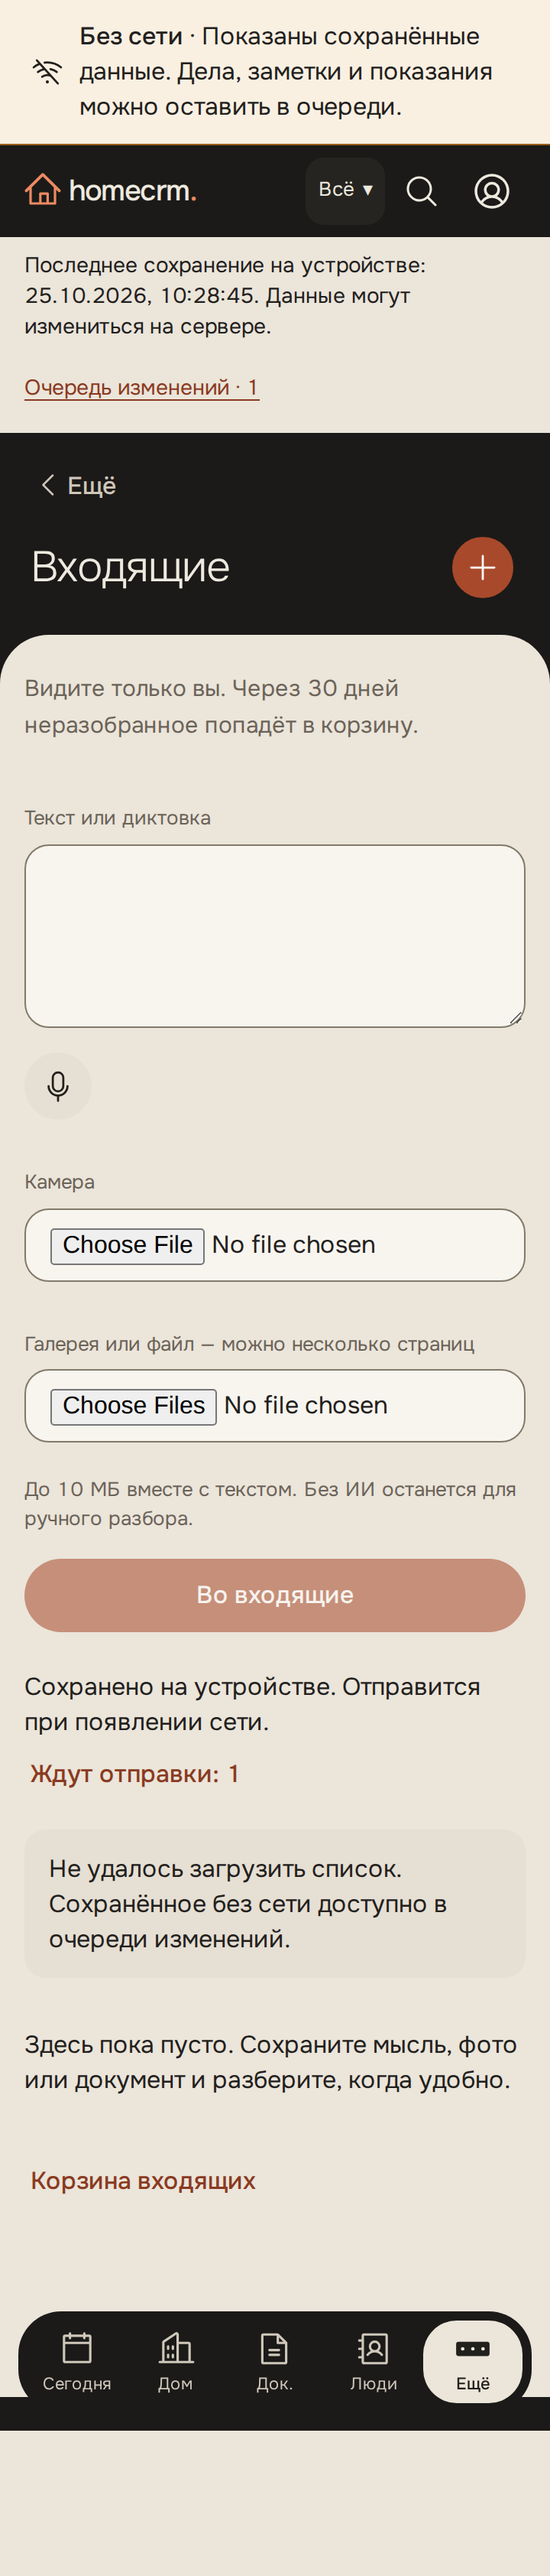
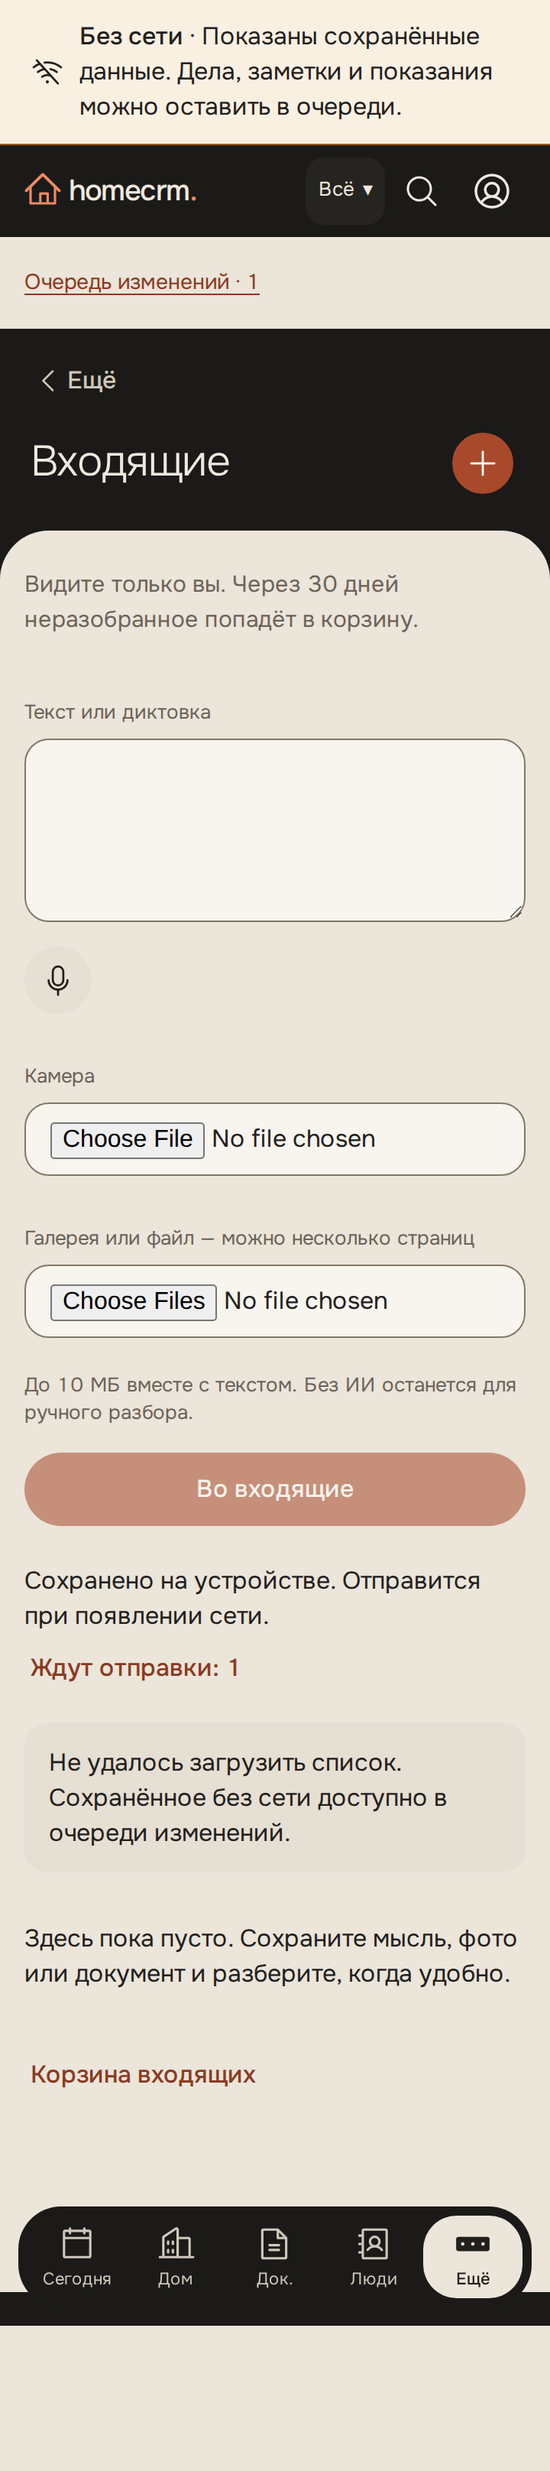
INBOX-1: понятные суммы, даты и типы в предпросмотре

Changed region(s): [[0.0306, 0.375, 0.9778, 0.9375], [0.0, 0.0, 1.0, 0.3438]]

diff --git a/apps/web/e2e/app/inbox.e2e.ts b/apps/web/e2e/app/inbox.e2e.ts
@@ -1,7 +1,8 @@
 import { randomUUID } from 'node:crypto';
-import { AiStatus } from '@homecrm/shared';
+import { AiStatus, DOCUMENT_LABELS, DocumentDraft, DraftSchemas } from '@homecrm/shared';
 import type { Page } from '@playwright/test';
 import { identityPage, meterPage } from '../../../server/src/ai/eval/inbox.ts';
+import { fakeDraft } from '../../../server/src/ai/providers.ts';
 import type { Family } from '../auth/support/family.ts';
 import { test } from '../auth/support/fixtures.ts';
 import { apiAs } from './notes-support.ts';
@@ -202,3 +203,61 @@ for (const automatic of [true, false])
     await expect(page.getByText('Черновик готов', { exact: true })).toBeVisible({ timeout: 20000 });
     await checkApp(page, info, automatic ? 'inbox-reopen' : 'inbox-parse-button');
   });
+
+test('INBOX-4: предпросмотр показывает рубли, русские даты и тип документа', async ({
+  page,
+  family,
+}, info) => {
+  const api = await apiAs(family, 'adult');
+  await signInAs(page, family, 'adult');
+  for (const kind of ['document', 'receipt'] as const) {
+    const id = randomUUID();
+    expect(
+      (
+        await api.post('inbox', {
+          id,
+          idempotencyKey: id,
+          ownerAccountId: family.person('adult').id,
+          offline: true,
+          source: 'text',
+          text: 'Учебная карточка формата',
+          houseId: family.houseId,
+        })
+      ).status,
+    ).toBe(201);
+    const raw = fakeDraft({
+      kind,
+      text: 'Учебный образец',
+      context: { objects: [], members: [], timeZone: 'Asia/Yekaterinburg' },
+    });
+    const fields =
+      kind === 'document'
+        ? { ...DocumentDraft.parse(raw), issuedOn: { value: '2026-10-05', confident: true } }
+        : DraftSchemas.receipt.parse(raw);
+    const draft = {
+      classification: {
+        kind,
+        objectId: { value: null, confident: false },
+        personId: { value: null, confident: false },
+        meterId: { value: null, confident: false },
+        newObject: null,
+        shoppingText: null,
+      },
+      fields,
+      additional: [],
+    };
+    await family.database.admin.query(
+      "UPDATE inbox_items SET status='ready',draft=$2::jsonb WHERE id=$1",
+      [id, JSON.stringify(draft)],
+    );
+    await openSection(page, `/more/inbox/${id}`, 'Входящее');
+    if (kind === 'document') {
+      await expect(page.getByText(DOCUMENT_LABELS.contract, { exact: true })).toBeVisible();
+      await expect(page.getByText(/5\sокт\.\s2026/)).toBeVisible();
+    } else {
+      await expect(page.getByText(/1\s234,56\s₽/)).toBeVisible();
+      await expect(page.getByText(/25\sокт\.\s2026/)).toBeVisible();
+    }
+    await checkApp(page, info, `inbox-preview-${kind}`);
+  }
+});

diff --git a/apps/web/src/inbox/InboxReview.tsx b/apps/web/src/inbox/InboxReview.tsx
@@ -1,6 +1,8 @@
 import {
+  DOCUMENT_LABELS,
   DocumentData,
   DocumentDraft,
+  type DocumentType,
   DraftSchemas,
   INBOX_KINDS,
   type InboxDraft,
@@ -36,6 +38,7 @@ import { ShoppingEditor } from '../shopping/ShoppingScreen.tsx';
 import { mutateTask } from '../tasks/api.ts';
 import { createBody } from '../tasks/NewTaskScreen.tsx';
 import { TaskForm } from '../tasks/TaskForm.tsx';
+import { type DateOnly, formatFullDate, formatRub } from '../ui/format.ts';
 import { StudioPage } from '../ui/StudioPage.tsx';
 import {
   type InboxItem,
@@ -63,7 +66,7 @@ const labels: Record<string, string> = {
   objectId: 'Объект',
   assigneeId: 'Ответственный',
   accountId: 'Лицевой счёт',
-  totalCents: 'Сумма, коп.',
+  totalCents: 'Сумма',
   period: 'Период',
   dueOn: 'Оплатить до',
   supplier: 'Поставщик',
@@ -78,7 +81,18 @@ function fieldsOf(fields: InboxDraft['fields']) {
           {
             key,
             label: labels[key] ?? key,
-            value: String(field.value ?? 'Не указано'),
+            value:
+              key === 'totalCents' && typeof field.value === 'number'
+                ? formatRub(field.value)
+                : ['date', 'issuedOn', 'expiresOn', 'dueOn'].includes(key) &&
+                    typeof field.value === 'string' &&
+                    /^\d{4}-\d{2}-\d{2}$/.test(field.value)
+                  ? formatFullDate(field.value as DateOnly)
+                  : key === 'type' &&
+                      typeof field.value === 'string' &&
+                      field.value in DOCUMENT_LABELS
+                    ? DOCUMENT_LABELS[field.value as DocumentType]
+                    : String(field.value ?? 'Не указано'),
             confident: field.confident,
           },
         ];
